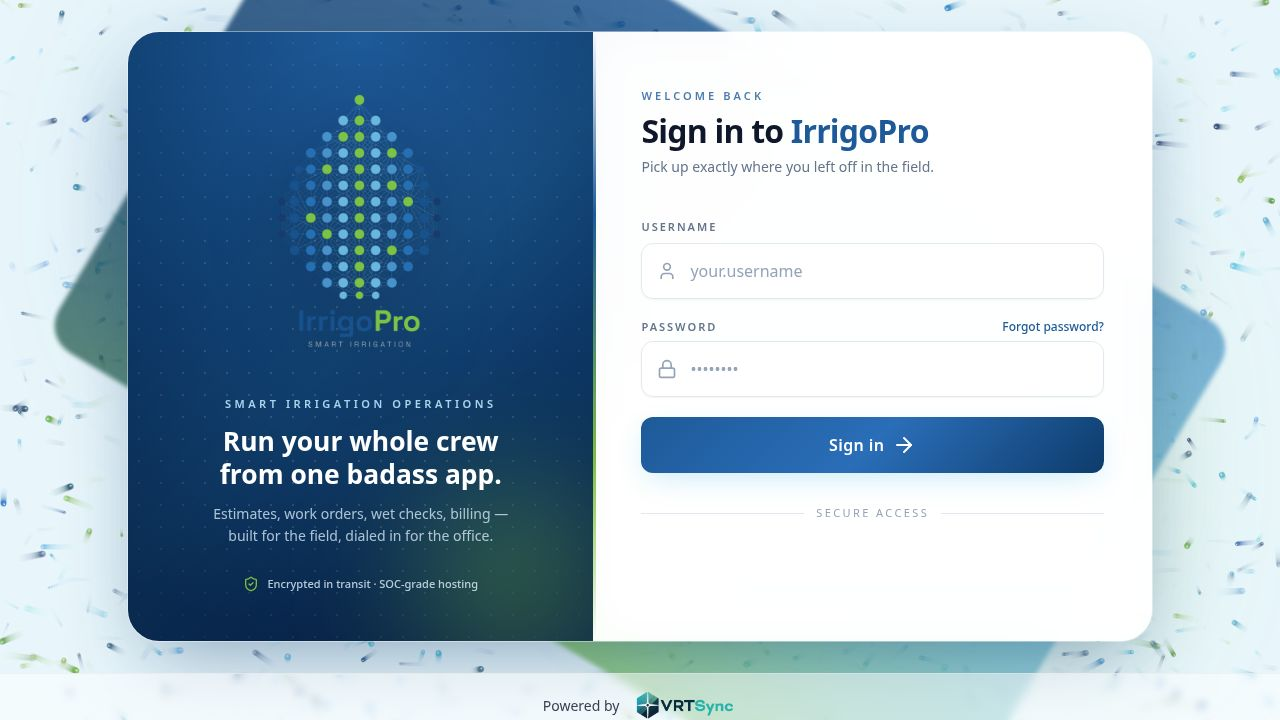
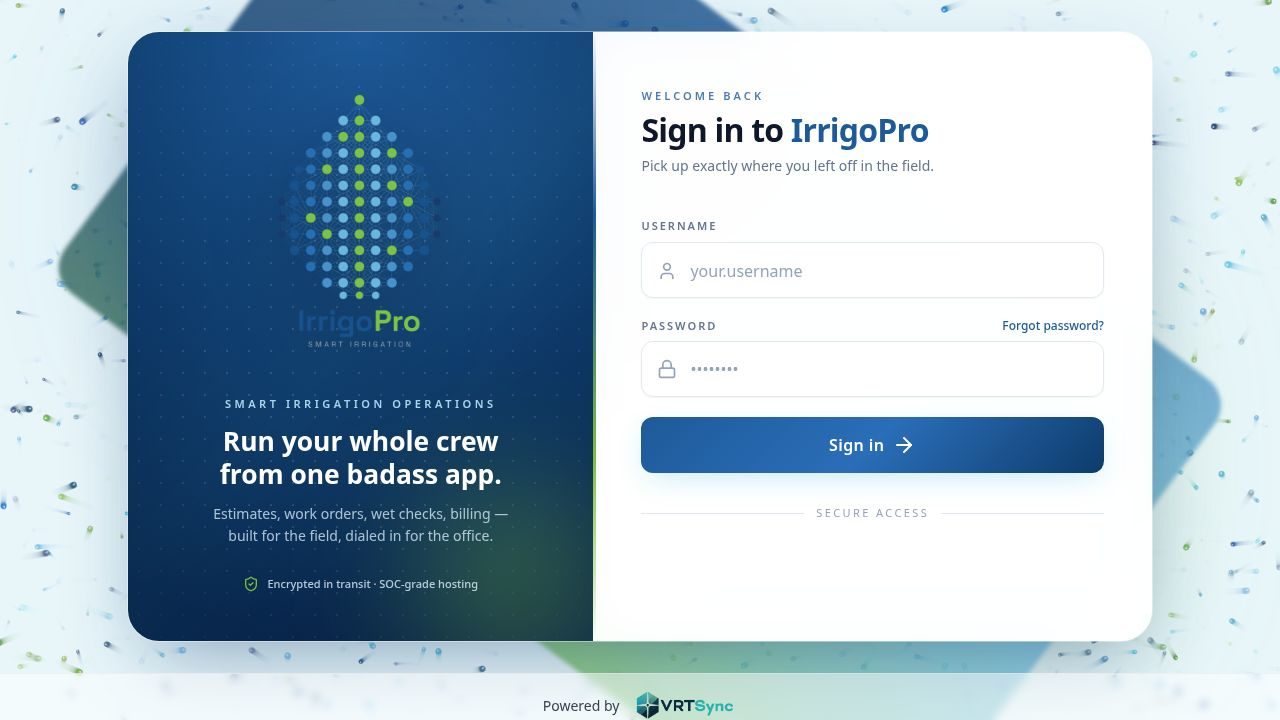
Add admin tool to repair QuickBooks company ID mismatches
Add a super-admin-only diagnostic tool to the QuickBooks integration component that allows for repairing company ID mismatches by calling a new API endpoint.

Replit-Commit-Author: Agent
Replit-Commit-Session-Id: 7701329e-b71e-43af-9557-56c01c4ef441
Replit-Commit-Checkpoint-Type: full_checkpoint
Replit-Commit-Event-Id: de450e30-aa4f-43f0-ad73-389389822fc1
Replit-Commit-Screenshot-Url: https://storage.googleapis.com/screenshot-production-us-central1/ae7894b1-12cd-48fe-acc6-f6506c6cf73b/7701329e-b71e-43af-9557-56c01c4ef441/LimLZC1
Replit-Helium-Checkpoint-Created: true

diff --git a/artifacts/irrigopro/src/components/quickbooks/quickbooks-integration.tsx b/artifacts/irrigopro/src/components/quickbooks/quickbooks-integration.tsx
@@ -17,7 +17,8 @@ import {
   DollarSign,
   ShieldAlert,
   Activity,
-  XCircle
+  XCircle,
+  Wrench
 } from "lucide-react";
 import { useToast } from "@/hooks/use-toast";
 import { apiRequest, adaptiveRefetchInterval, useArrayQuery } from "@/lib/queryClient";
@@ -258,6 +259,44 @@ export function QuickBooksIntegration({ className }: QuickBooksConnectionProps) 
   const queryClient = useQueryClient();
   const { toast } = useToast();
   const search = useSearch();
+
+  // Read role + companyId from the session stored in localStorage.
+  const { userRole, userCompanyId } = (() => {
+    try {
+      const u = JSON.parse(localStorage.getItem("user") || "{}");
+      return { userRole: u.role as string | undefined, userCompanyId: String(u.companyId ?? "") };
+    } catch {
+      return { userRole: undefined, userCompanyId: "" };
+    }
+  })();
+
+  const repairCompanyIdMutation = useMutation({
+    mutationFn: async () => {
+      return await apiRequest("/api/admin/repair/qb-company-id", "POST", { targetCompanyId: userCompanyId });
+    },
+    onSuccess: (data: any) => {
+      if (data.rowsPatched > 0) {
+        toast({
+          title: "QB Company ID Repaired",
+          description: `Patched ${data.rowsPatched} row(s) to company ${data.targetCompanyId}. Refreshing status…`,
+        });
+      } else {
+        toast({
+          title: "No Rows Needed Repair",
+          description: "All QuickBooks integration rows already have the correct company ID.",
+        });
+      }
+      queryClient.invalidateQueries({ queryKey: ["/api/quickbooks/connection"] });
+      queryClient.invalidateQueries({ queryKey: ["/api/quickbooks/health"] });
+    },
+    onError: (error: any) => {
+      toast({
+        title: "Repair Failed",
+        description: error?.message || "Could not repair the QB company ID. Check the API logs.",
+        variant: "destructive",
+      });
+    },
+  });
 
   // Phase 5b — QB Harden #5: surface credential/env mismatch errors that were
   // forwarded from the OAuth callback via ?qb_connect_error=<message>.
@@ -616,6 +655,40 @@ export function QuickBooksIntegration({ className }: QuickBooksConnectionProps) 
             </h3>
             <ConnectionHealthPanel />
           </div>
+
+          {/* Super-admin diagnostics: one-click company ID repair */}
+          {userRole === "super_admin" && (
+            <>
+              <Separator />
+              <div className="space-y-3">
+                <h3 className="text-sm font-semibold text-muted-foreground flex items-center gap-2">
+                  <Wrench className="w-4 h-4" />
+                  Admin Diagnostics
+                </h3>
+                <div className="rounded-lg border border-amber-200 bg-amber-50 p-3 space-y-2">
+                  <p className="text-xs text-amber-800 font-medium">Repair QB company ID mismatch</p>
+                  <p className="text-xs text-amber-700">
+                    If the connection shows "Connected" but syncs fail with "not connected", the
+                    integration row may be stored under the QB realm ID instead of your IrrigoPro
+                    company ID. Click Repair to fix it in one step.
+                  </p>
+                  <Button
+                    size="sm"
+                    variant="outline"
+                    className="border-amber-400 text-amber-900 hover:bg-amber-100"
+                    disabled={!userCompanyId || repairCompanyIdMutation.isPending}
+                    onClick={() => repairCompanyIdMutation.mutate()}
+                  >
+                    {repairCompanyIdMutation.isPending ? (
+                      <><RefreshCw className="w-3 h-3 mr-1 animate-spin" />Repairing…</>
+                    ) : (
+                      <><Wrench className="w-3 h-3 mr-1" />Repair Company ID</>
+                    )}
+                  </Button>
+                </div>
+              </div>
+            </>
+          )}
 
           <Separator />
 